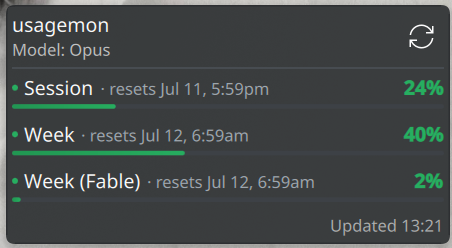
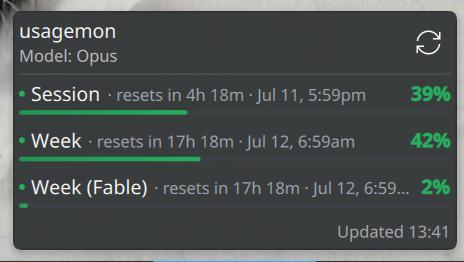
Show countdown-only in narrow popup, add absolute time only when wide
The combined "in 2h 14m · Jul 11, 5:59pm" reset line was truncated in the
narrow popup. Now the narrow layout shows just the live countdown, and the
Wider layout adds the absolute time alongside it.

Changed region(s): [[0.0, 0.0, 1.0, 1.0]]

diff --git a/package/contents/ui/UsageBar.qml b/package/contents/ui/UsageBar.qml
@@ -32,10 +32,17 @@ ColumnLayout {
         return i18n("%1m", mins)
     }
 
+    // Narrow popup: just the live countdown (short, never truncated).
+    // Wide popup: countdown plus the absolute time.
     readonly property string resetText: {
-        if (shortResets.length === 0) return ""
-        if (countdown.length > 0) return i18n("· resets in %1 · %2", countdown, shortResets)
-        return i18n("· resets %1", shortResets)
+        void nowMs
+        if (countdown.length === 0) {
+            return shortResets.length > 0 ? i18n("· resets %1", shortResets) : ""
+        }
+        if (fullResets && shortResets.length > 0) {
+            return i18n("· resets in %1 · %2", countdown, shortResets)
+        }
+        return i18n("· resets in %1", countdown)
     }
 
     Layout.fillWidth: true

diff --git a/README.md b/README.md
@@ -26,8 +26,9 @@ in your panel. Click it for a popup with the full breakdown and reset times.
   When the OAuth API is used, this follows the API's own `severity` for each
   limit; otherwise it falls back to configurable warning/critical thresholds.
 - **Detail popup**: per-limit progress bars (session, week, plus any extra limits
-  such as a per-model weekly limit) with reset times shown both as a live
-  countdown and the absolute time (e.g. `resets in 2h 14m · Jul 11, 5:59pm`).
+  such as a per-model weekly limit) with a live reset countdown
+  (e.g. `resets in 2h 14m`). Enable **Wider layout** to also show the absolute
+  time (`resets in 2h 14m · Jul 11, 5:59pm`).
 - **Notifications**: optional desktop notification when a limit crosses a
   configurable threshold (default 90%).
 - **Active model**: reads your configured model from `~/.claude/settings.json`
@@ -71,7 +72,7 @@ Right-click the widget → **Configure usagemon…** → **General**:
 | Critical threshold (%) | `90` | Usage at which the readout turns red (when no API severity) |
 | Notifications | on | Notify when a limit is high |
 | Notify threshold (%) | `90` | Usage at which a notification fires |
-| Wider layout | off | Widen the popup and show the full reset time |
+| Wider layout | off | Widen the popup and add the absolute reset time next to the countdown |
 
 ## How it works
 
